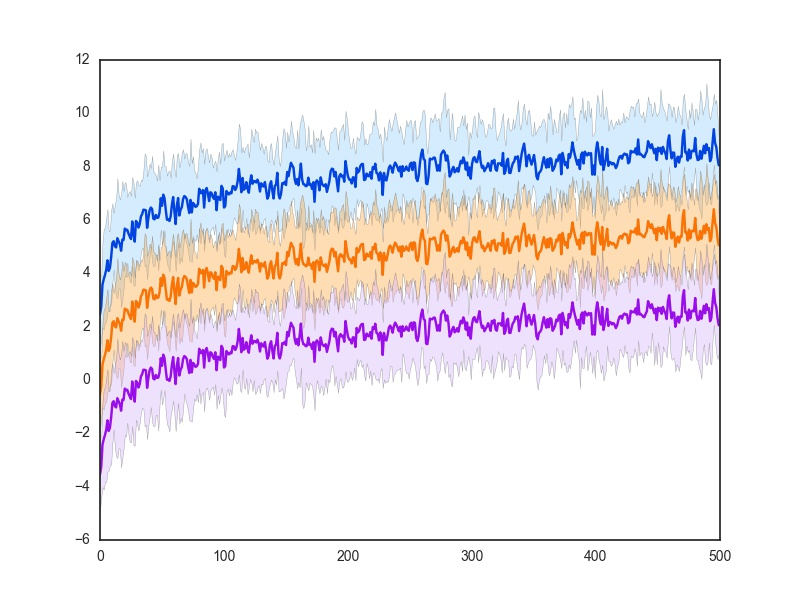
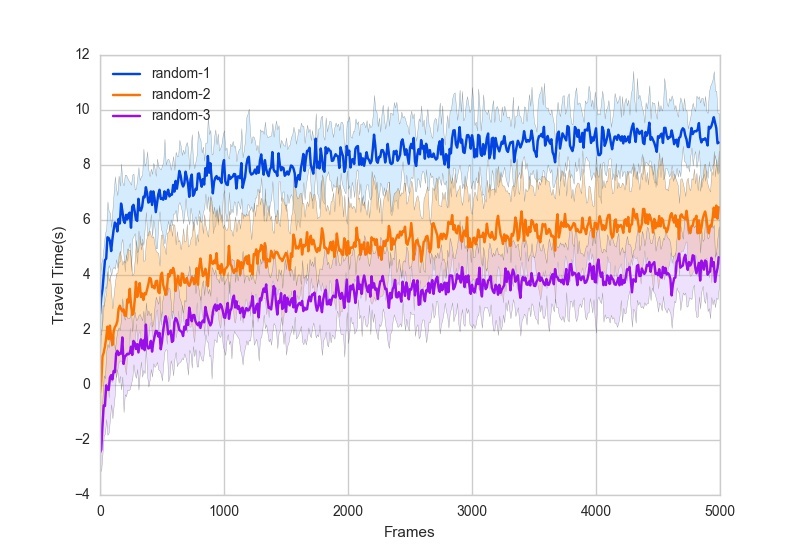
time for coconut milk

diff --git a/Painter.py b/Painter.py
@@ -8,22 +8,42 @@ class Painter():
     """docstring for Paiter."""
     def __init__(self, category='line',
                 dir = None,
-                colorful = 'favorite',):
+                colorful = 'favorite',
+                axis = 0):
         self.colorful = colorful
         self.category = category
         self.color_mark = 0
+        self.data = {}
+        self.dir = dir
+        self.axis = axis
 
-        sns.set(style="white", color_codes=True)
+        sns.set(style="whitegrid", color_codes=True)
         if not dir:
-            self.data = self.random_data()
+            self.data['random-1'] = self.random_data()
+            self.data['random-2'] = self.random_data() - 2
+            self.data['random-3'] = self.random_data() - 4
         else:
-            # automaticly read all valid files.
-            pass
+            files = os.listdir(dir)
+            self.wanted = [i for i in files if i[-3:] == 'csv']
+            self.read_data()
+
         if self.colorful == 'favorite':
             colors = ["blue","orange","violet","green","red"]
             shadow_colors = ["light blue","light orange","light violet","light green","baby pink"]
             self.color_palette = sns.xkcd_palette(colors)
             self.shadow_color = sns.xkcd_palette(shadow_colors)
+
+    def read_data(self):
+        if len(self.wanted) == 0:
+            print('No valied files {only .csv supported}')
+            return
+        for name in self.wanted:
+            print(self.dir + '/' + name)
+            d = pd.read_csv(self.dir + name)
+            if self.axis == 1: d = d.T
+            self.data[name[:-4]] = d
+            print("All %d files will be ploted." % len(self.wanted))
+            print(self.data)
 
     def random_data(self, times = 5):
         return pd.DataFrame([self.random_feature() + np.random.randint(5) for i in range(times)])
@@ -42,29 +62,29 @@ class Painter():
         else:
             return self.color_palette[k]
 
-    def painte(self, gamma=0.6):
+    def painte(self, gamma=0.6, stretch=10):
         with self.color_palette:
             if self.category == 'line':
-                self._plot_line(gamma)
-                self.data -= 3
-                self._plot_line(gamma)
-                self.data -= 3
-                self._plot_line(gamma)
-                self.data -= 3
+                for name, each_line in self.data.items():
+                    self._plot_line(gamma, each_line, name, stretch)
+                plt.xlabel('Frames')
+                plt.ylabel('Travel Time(s)')
+                plt.legend(loc='upper left')
                 plt.savefig("./example.jpg")
+                plt.show()
 
-
-    def _plot_line(self, gamma, shadow=True):
-        mean = np.mean(self.data, axis=0)
+    def _plot_line(self, gamma, data, name, stretch,shadow=True):
+        mean = np.mean(data, axis=0)
         c, sc = self.colorful_world()
         for i in range(1,len(mean)):
             mean[i] = mean[i] * gamma + mean[i-1] * (1 - gamma)
-        plt.plot(mean, color=c)
+        plt.plot(stretch*np.arange(len(mean)), mean, color=c, label=name)
         if shadow:
-            std = np.std(self.data, axis=0)
+            std = np.std(data, axis=0)
             for i in range(1,len(std)):
                 std[i] = std[i] * gamma + std[i-1] * (1 - gamma)
-            plt.fill_between(np.arange(len(mean)), mean-std, mean+std, facecolor=sc, alpha=0.4)
+            plt.fill_between(stretch*np.arange(len(mean)), mean-std, mean+std, facecolor=sc, alpha=0.4)
 
-p = Painter()
-p.painte()
+if __name__ == '__main__':
+    p = Painter()
+    p.painte()
